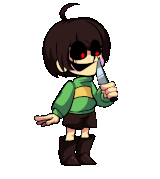
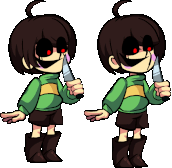
chara stufff

diff --git a/src/character/chara.c b/src/character/chara.c
@@ -28,8 +28,6 @@ enum
 	Chara_ArcMain_Down3,
 	Chara_ArcMain_Up0,
 	Chara_ArcMain_Up1,
-	Chara_ArcMain_Up2,
-	Chara_ArcMain_Up3,
 	Chara_ArcMain_Right0,
 	Chara_ArcMain_Right1,
 	Chara_Arc_Max,
@@ -50,34 +48,35 @@ typedef struct
 
 //Chara character definitions
 static const CharFrame char_chara_frame[] = {
-	{Chara_ArcMain_Idle0, {  2,   1, 101, 154}, { 38, 154}}, //0 idle 1
-	{Chara_ArcMain_Idle0, {105,   0, 102, 155}, { 39, 154}}, //1 idle 2
-	{Chara_ArcMain_Idle1, {  0,   0, 105, 155}, { 38, 155}}, //2 idle 3
-	{Chara_ArcMain_Idle1, {108,   0, 100, 155}, { 35, 155}}, //3 idle 4
-	{Chara_ArcMain_Idle2, {  6,   0,  99, 156}, { 34, 155}}, //4 idle 5
-	{Chara_ArcMain_Idle2, {108,   0, 100, 155}, { 35, 155}}, //5 idle 6
-	{Chara_ArcMain_Idle3, {  4,   0, 101, 156}, { 37, 156}}, //6 idle 7
-	{Chara_ArcMain_Idle3, {108,   0, 100, 155}, { 36, 155}}, //7 idle 8
+	{Chara_ArcMain_Idle0, {  2,   1, 101, 154}, { 58, 154}}, //0 idle 1
+	{Chara_ArcMain_Idle0, {105,   0, 102, 155}, { 58, 155}}, //1 idle 2
+	{Chara_ArcMain_Idle1, {  2,   0, 103, 155}, { 58, 155}}, //2 idle 3
+	{Chara_ArcMain_Idle1, {108,   0, 100, 155}, { 56, 155}}, //3 idle 4
+	{Chara_ArcMain_Idle2, {  6,   0,  99, 155}, { 55, 155}}, //4 idle 5
+	{Chara_ArcMain_Idle2, {108,   0, 100, 155}, { 56, 155}}, //5 idle 6
+	{Chara_ArcMain_Idle3, {  4,   0, 101, 156}, { 57, 156}}, //6 idle 7
+	{Chara_ArcMain_Idle3, {108,   0, 100, 155}, { 56, 155}}, //7 idle 8
 	
-	{Chara_ArcMain_Left0, {  0,   0, 136, 139}, { 79, 139}}, //8 left 1
-	{Chara_ArcMain_Left1, {  0,   0, 136, 139}, { 79, 139}}, //9 left 2
-	{Chara_ArcMain_Left2, {  0,   0, 136, 139}, { 79, 139}}, //10 left 1
-	{Chara_ArcMain_Left3, {  0,   0, 136, 139}, { 79, 139}}, //11 left 2
+	{Chara_ArcMain_Left0, { 10,   0, 126, 137}, { 92, 137}}, //8 left 1
+	{Chara_ArcMain_Left1, {  5,   3, 130, 134}, { 96, 134}}, //9 left 2
+	{Chara_ArcMain_Left2, {  3,   5, 131, 133}, { 98, 133}}, //10 left 1
+	{Chara_ArcMain_Left3, {  3,   5, 132, 133}, { 99, 133}}, //11 left 2
 	
-	{Chara_ArcMain_Down0, {  0,   0, 160, 179}, { 66, 158}}, //12 down 1
-	{Chara_ArcMain_Down1, {  0,   0, 160, 179}, { 66, 158}}, //13 down 2
-	{Chara_ArcMain_Down2, {  0,   0, 160, 179}, { 66, 158}}, //14 down 1
-	{Chara_ArcMain_Down3, {  0,   0, 160, 179}, { 66, 158}}, //15 down 2
+	// can i do dis? lol
+	{Chara_ArcMain_Down0, {  0,   0, 0, 0}, { 0, 0}}, //12 down 1
+	{Chara_ArcMain_Down1, {  0,   0, 0, 0}, { 0, 0}}, //13 down 2
+	{Chara_ArcMain_Down2, {  0,   0, 0, 0}, { 0, 0}}, //14 down 1
+	{Chara_ArcMain_Down3, {  0,   0, 0, 0}, { 0, 0}}, //15 down 2
 	
-	{Chara_ArcMain_Up0, {  0,   0,160, 179}, { 68, 165}}, //16 up 1
-	{Chara_ArcMain_Up1, {  0,   0,160, 179}, { 68, 168}}, //17 up 2
-	{Chara_ArcMain_Up2, {  0,   0,160, 179}, { 68, 168}}, //18 up 1
-	{Chara_ArcMain_Up3, {  0,   0,160, 179}, { 68, 168}}, //19 up 2
+	{Chara_ArcMain_Up0, {  0,   0,  84, 163}, { 47, 163}}, //16 up 1
+	{Chara_ArcMain_Up0, { 84,   0,  87, 168}, { 50, 168}}, //17 up 2
+	{Chara_ArcMain_Up1, {  0,   0,  87, 168}, { 49, 168}}, //18 up 1
+	{Chara_ArcMain_Up1, { 87,   0,  87, 168}, { 49, 168}}, //19 up 2
 
-	{Chara_ArcMain_Right0, {  0,   0, 107, 161}, { 41, 155}}, //20 right 1
-	{Chara_ArcMain_Right0, {111,   0, 118, 161}, { 40, 155}}, //21 right 2
-	{Chara_ArcMain_Right1, {  0,   0, 107, 161}, { 41, 155}}, //22 right 1
-	{Chara_ArcMain_Right1, {111,   0, 118, 161}, { 40, 155}}, //23 right 2
+	{Chara_ArcMain_Right0, {  4,   6,  99, 149}, { 56, 149}}, //20 right 1
+	{Chara_ArcMain_Right0, {112,   7, 104, 148}, { 58, 148}}, //21 right 2
+	{Chara_ArcMain_Right1, {  6,   5,  89, 150}, { 55, 150}}, //22 right 1
+	{Chara_ArcMain_Right1, {116,   6,  92, 150}, { 54, 150}}, //23 right 2
 
 };
 
@@ -186,8 +185,6 @@ Character *Char_Chara_New(fixed_t x, fixed_t y)
 		"down3.tim",  //Chara_ArcMain_Down
 		"up0.tim",    //Chara_ArcMain_Up
 		"up1.tim",    //Chara_ArcMain_Up
-		"up2.tim",    //Chara_ArcMain_Up
-		"up3.tim",    //Chara_ArcMain_Up
 		"right0.tim", //Chara_ArcMain_Right
 		"right1.tim", //Chara_ArcMain_Right
 		NULL

diff --git a/src/stage.c b/src/stage.c
@@ -23,7 +23,7 @@
 #include "object/splash.h"
 
 //Stage constants
-//#define STAGE_FREECAM //Freecam
+#define STAGE_FREECAM //Freecam
 
 //normal note x
 static const fixed_t note_x[8] = {
